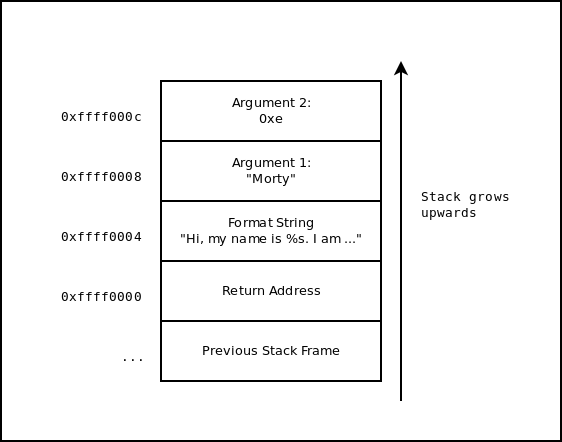
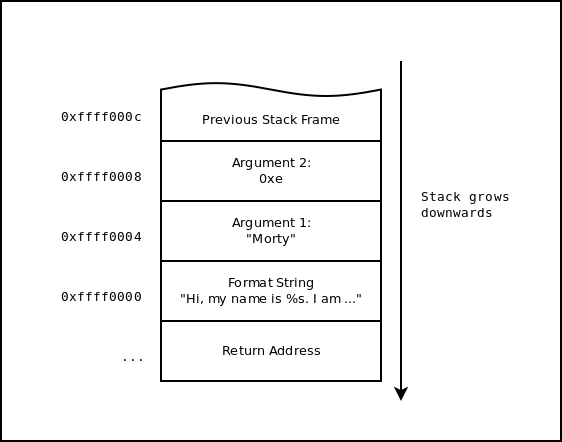
Updated session4

diff --git a/sessions/session4/formatstring/basic3.c b/sessions/session4/formatstring/basic3.c
@@ -1,0 +1,13 @@
+#include <stdio.h>
+
+int main(int argc, char** argv) {
+    meeseeks();
+}
+
+void meeseeks() {
+    int wish1 = 0x41414141;
+    int wish2 = 0x42424242;
+    int wish3 = 0x43434343;
+    int wish4 = 0x44444444;
+    printf("I'm Mr Meeseeks! Look at me! Your wishes: %x, %x, %x, %x, %x, %x, %x\n");
+}

diff --git a/sessions/session4/formatstring/basic4.c b/sessions/session4/formatstring/basic4.c
@@ -1,0 +1,13 @@
+#include <stdio.h>
+
+int main(int argc, char** argv) {
+    meeseeks();
+}
+
+void meeseeks() {
+    int wish1 = 0x41414141;
+    int wish2 = 0x42424242;
+    int wish3 = 0x43434343;
+    int wish4 = 0x44444444;
+    printf("Last golf run: %3$x\n", wish1, wish2, wish3, wish4);
+}

diff --git a/sessions/session4/session4.md b/sessions/session4/session4.md
@@ -74,11 +74,172 @@ The stack looks like this:
 
 ![basic 2 stack][basic2stack]
 
+Observe that the first format specifier "%s" corresponds to the "Morty" and "%d"
+corresponds to 0xe which is 14 in decimal. The `printf()` function scans the
+format string at runtime for format specifiers and formats the corresponding
+argument on the stack. Now, what happens if a format string has more specifiers
+than arguments? Take a look at the following code ([basic3.c][2]):
 
+```c
+#include <stdio.h>
+
+int main(int argc, char** argv) {
+    meeseeks();
+}
+
+void meeseeks() {
+    int wish1 = 0x41414141;
+    int wish2 = 0x42424242;
+    int wish3 = 0x43434343;
+    int wish4 = 0x44444444;
+    printf("I'm Mr Meeseeks! Look at me! Your wishes: %x, %x, %x, %x, %x, %x, %x\n");
+}
+```
+
+Let's run the program:
+
+```console
+$ ./basic3
+I'm Mr Meeseeks! Look at me! Your wishes: f772b000, fff55f64, c5da, 41414141,
+42424242, 43434343, 44444444
+```
+
+Notice that variables from the `meeseeks()` stack frame is accessed by the
+`printf()` function along with some garbage. The garbage is unused data from
+when space is allocated before the function call. Here is the disassembly:
+
+```console
+0804843f <meeseeks>:
+ 804843f:       55                      push   %ebp
+ 8048440:       89 e5                   mov    %esp,%ebp
+ 8048442:       83 ec 18                sub    $0x18,%esp
+ 8048445:       c7 45 e8 41 41 41 41    movl   $0x41414141,-0x18(%ebp)
+ 804844c:       c7 45 ec 42 42 42 42    movl   $0x42424242,-0x14(%ebp)
+ 8048453:       c7 45 f0 43 43 43 43    movl   $0x43434343,-0x10(%ebp)
+ 804845a:       c7 45 f4 44 44 44 44    movl   $0x44444444,-0xc(%ebp)
+ 8048461:       83 ec 0c                sub    $0xc,%esp
+ 8048464:       68 00 85 04 08          push   $0x8048500
+ 8048469:       e8 82 fe ff ff          call   80482f0 <printf@plt>
+```
+
+Notice 0xc amount of space is allocated which corresponds to the 12 bytes
+printed by the program before the previous stack frame's variables. Now, if we
+want to visualise the stack, it should look like this:
+
+![basic 3 stack][basic3stack]
+
+Now, let's revisit the vulnerable code at the [beginning][1] of this section. We
+can see that the intention of the code is to echo whatever the user provides as
+an argument to the program.
+
+```console
+$ ./basic1 buurrrp
+buurrrp
+$ ./basic1 yeaars
+yeaars
+```
+
+What the programmer had forgotten, however, is that format specifiers exist and
+an attacker can craft special input to disclose data on the stack:
+
+```console
+$ ./basic1 "%x %x %x %x %x"
+bb251528 bb251540 0 ba26edd0 ba2839d0
+```
+
+Now, let's introduce some rough techniques to dump memory. To make it easier, we
+will introduce a feature of the format specifier called the 'direct parameter
+access'. The 'direct parameter access' lets you access a particular parameter
+out of order by specifying an index in the specifier. For example, `%10$x` takes
+the 10th parameter for formatting.
+
+To demonstrate, let's use this sample code ([basic4.c][4]):
+
+```c
+$ cat basic4.c
+#include <stdio.h>
+
+int main(int argc, char** argv) {
+    meeseeks();
+}
+
+void meeseeks() {
+    int wish1 = 0x41414141;
+    int wish2 = 0x42424242;
+    int wish3 = 0x43434343;
+    int wish4 = 0x44444444;
+    printf("Last golf run: %3$x\n", wish1, wish2, wish3, wish4);
+}
+```
+
+In the code, we directly access the third parameter, `wish3`, for printing. We
+should expect that `wish3` (0x43434343) would be printed when we run the
+program:
+
+```
+$ ./basic4
+Last golf run: 43434343
+```
+
+Now that we know about 'direct parameter access', we can use this to do some
+cheap scripting on our vulnerable code ([basic1.c][1]):
+
+```console
+$ for i in `seq 1 100`; do ./basic1 "%$i\$x"; echo;done
+152a7578
+a2860520
+0
+17e6dd0
+d0d689d0
+...
+3fc42bb9
+67b0cbd7
+c9042bec
+e606ac38
+d799ec52
+75dbec66
+75c1dc79
+6fd43c8a
+cd7bcc99
+...
+```
+
+Now, if you look closely, there are pointers in memory from the dump. We can
+read from those locations in memory by using `%s`, which prints a string by
+deferencing a char pointer.
+
+```console
+$ for i in `seq 1 100`; do ./basic1 "%$i\$s"; echo;done
+(null)
+...
+Segmentation fault (core dumped)
+...
+./basic1
+%38$s
+(null)
+XDG_VTNR=7
+LC_PAPER=en_SG.UTF-8
+LC_ADDRESS=en_SG.UTF-8
+XDG_SESSION_ID=c2
+XDG_GREETER_DATA_DIR=/var/lib/lightdm-data/amon
+LC_MONETARY=en_SG.UTF-8
+...
+```
+
+As it starts dereferencing pointers, you get Segmentation Faults because these
+pointers might point to areas of memory that are illegal to access. For example,
+if it tries to dereference the memory address `0x41414141` it will segfault.
+What is interesting here is that we are able to dump environment variables from
+the heap. This might be useful for an attacker trying to gain information on the
+operating environment of the application.
 
 [//]: # (Links)
 [1]: ./formatstring/basic1.c
 [2]: ./formatstring/basic2.c
+[3]: ./formatstring/basic3.c
+[4]: ./formatstring/basic4.c
+
 
 [//]: # (Images)
 [basic2stack]: ./basic2stack.png
+[basic3stack]: ./basic3stack.png
